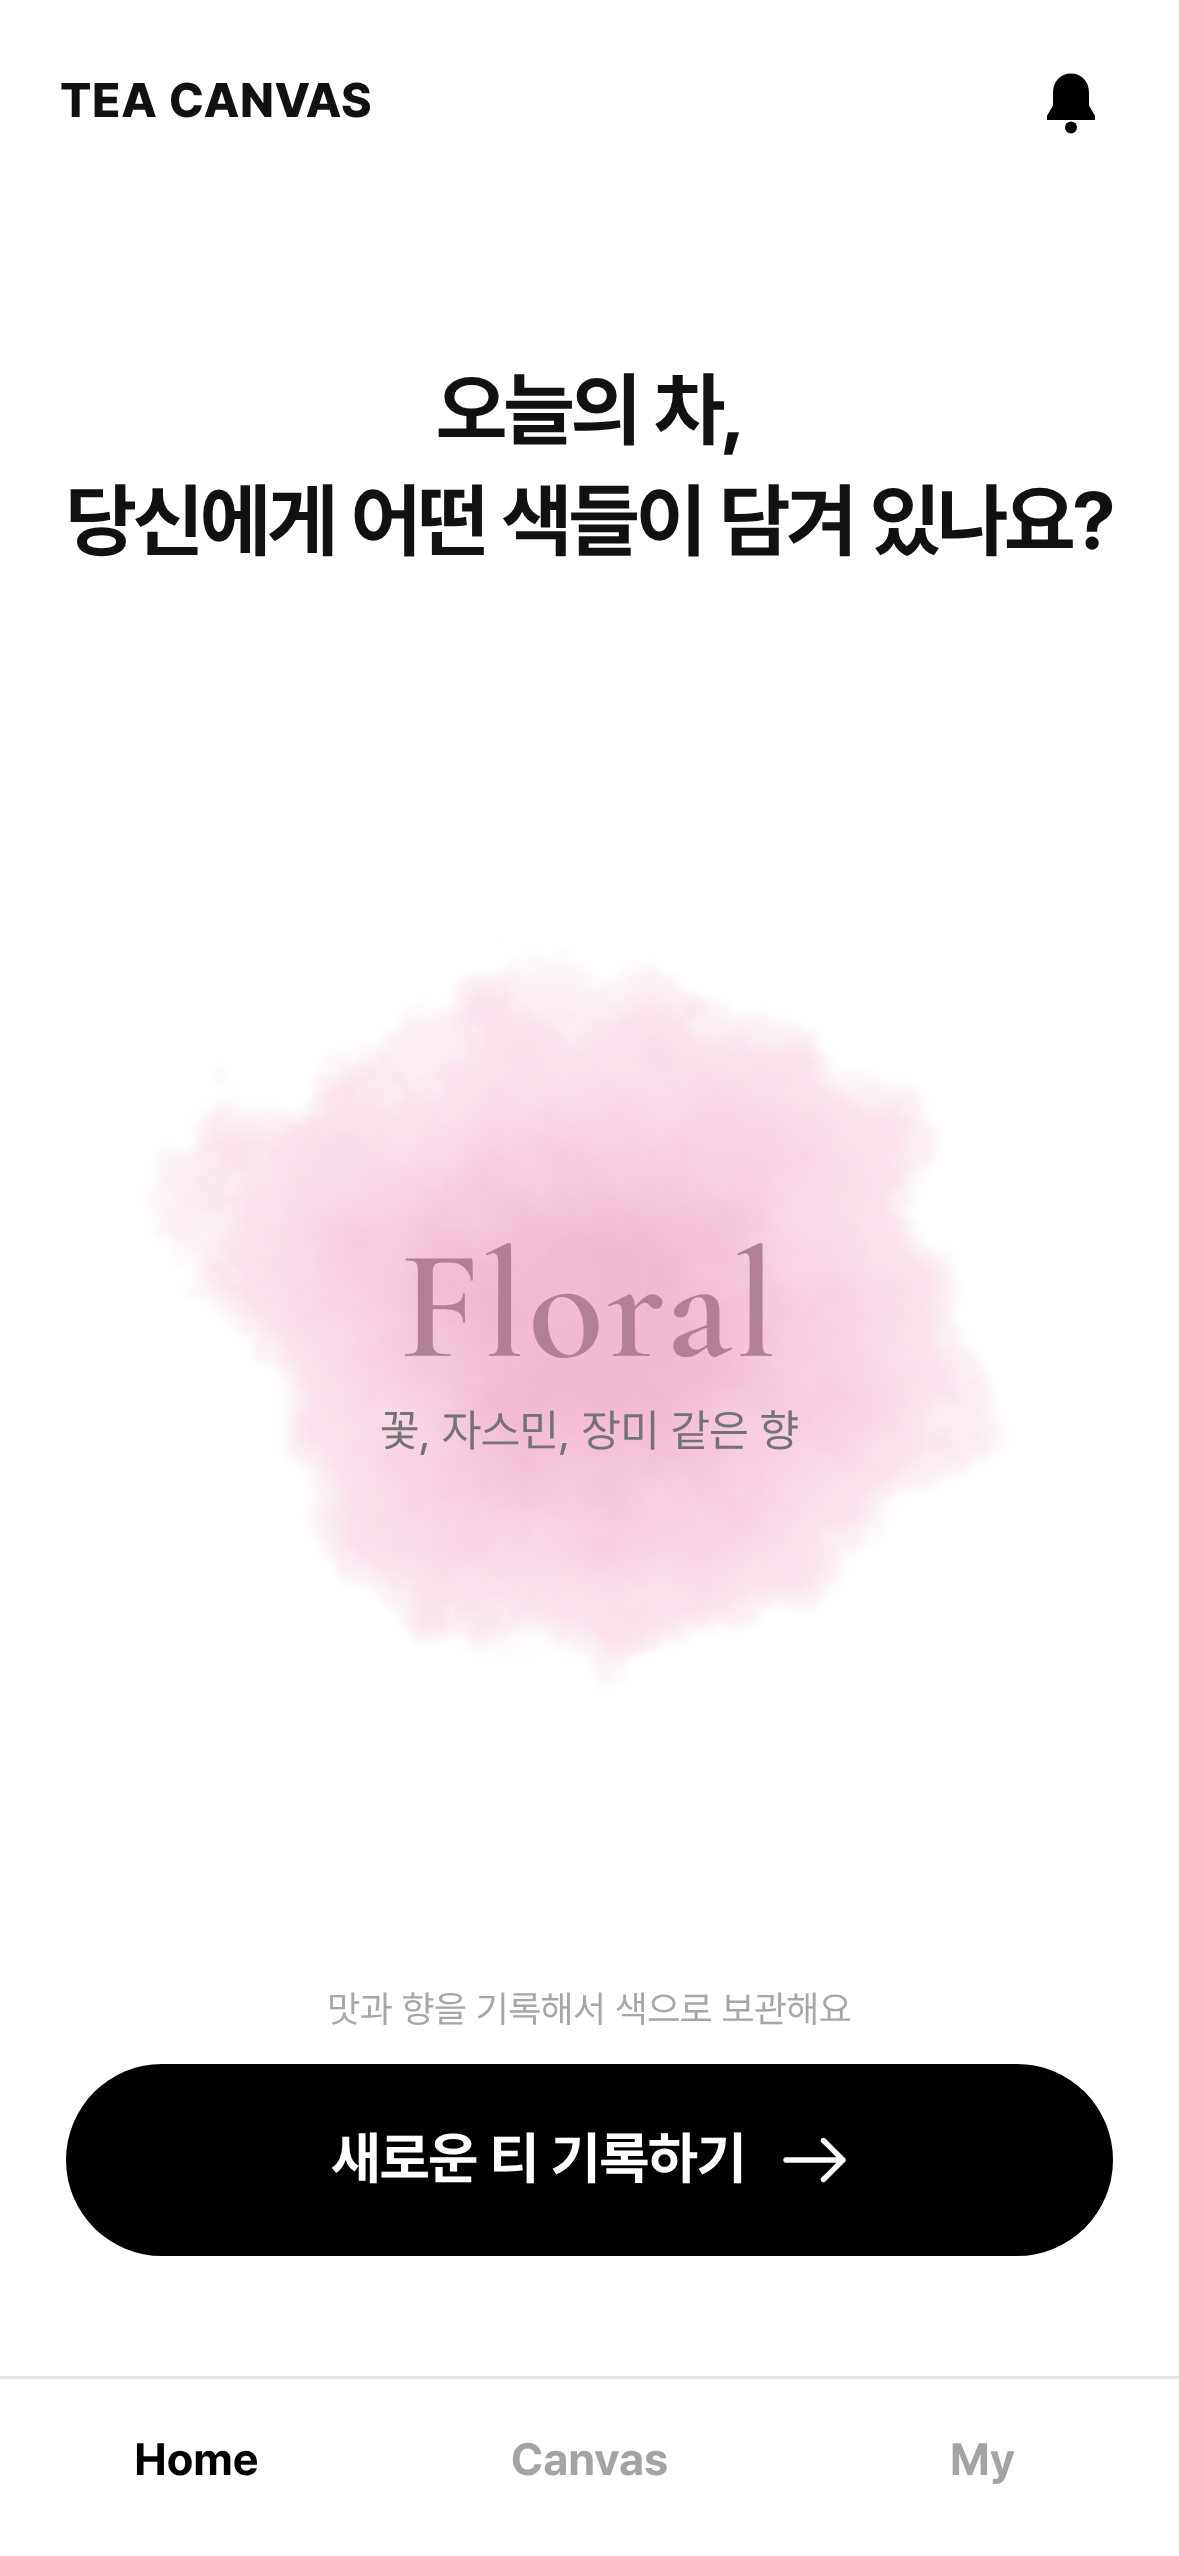
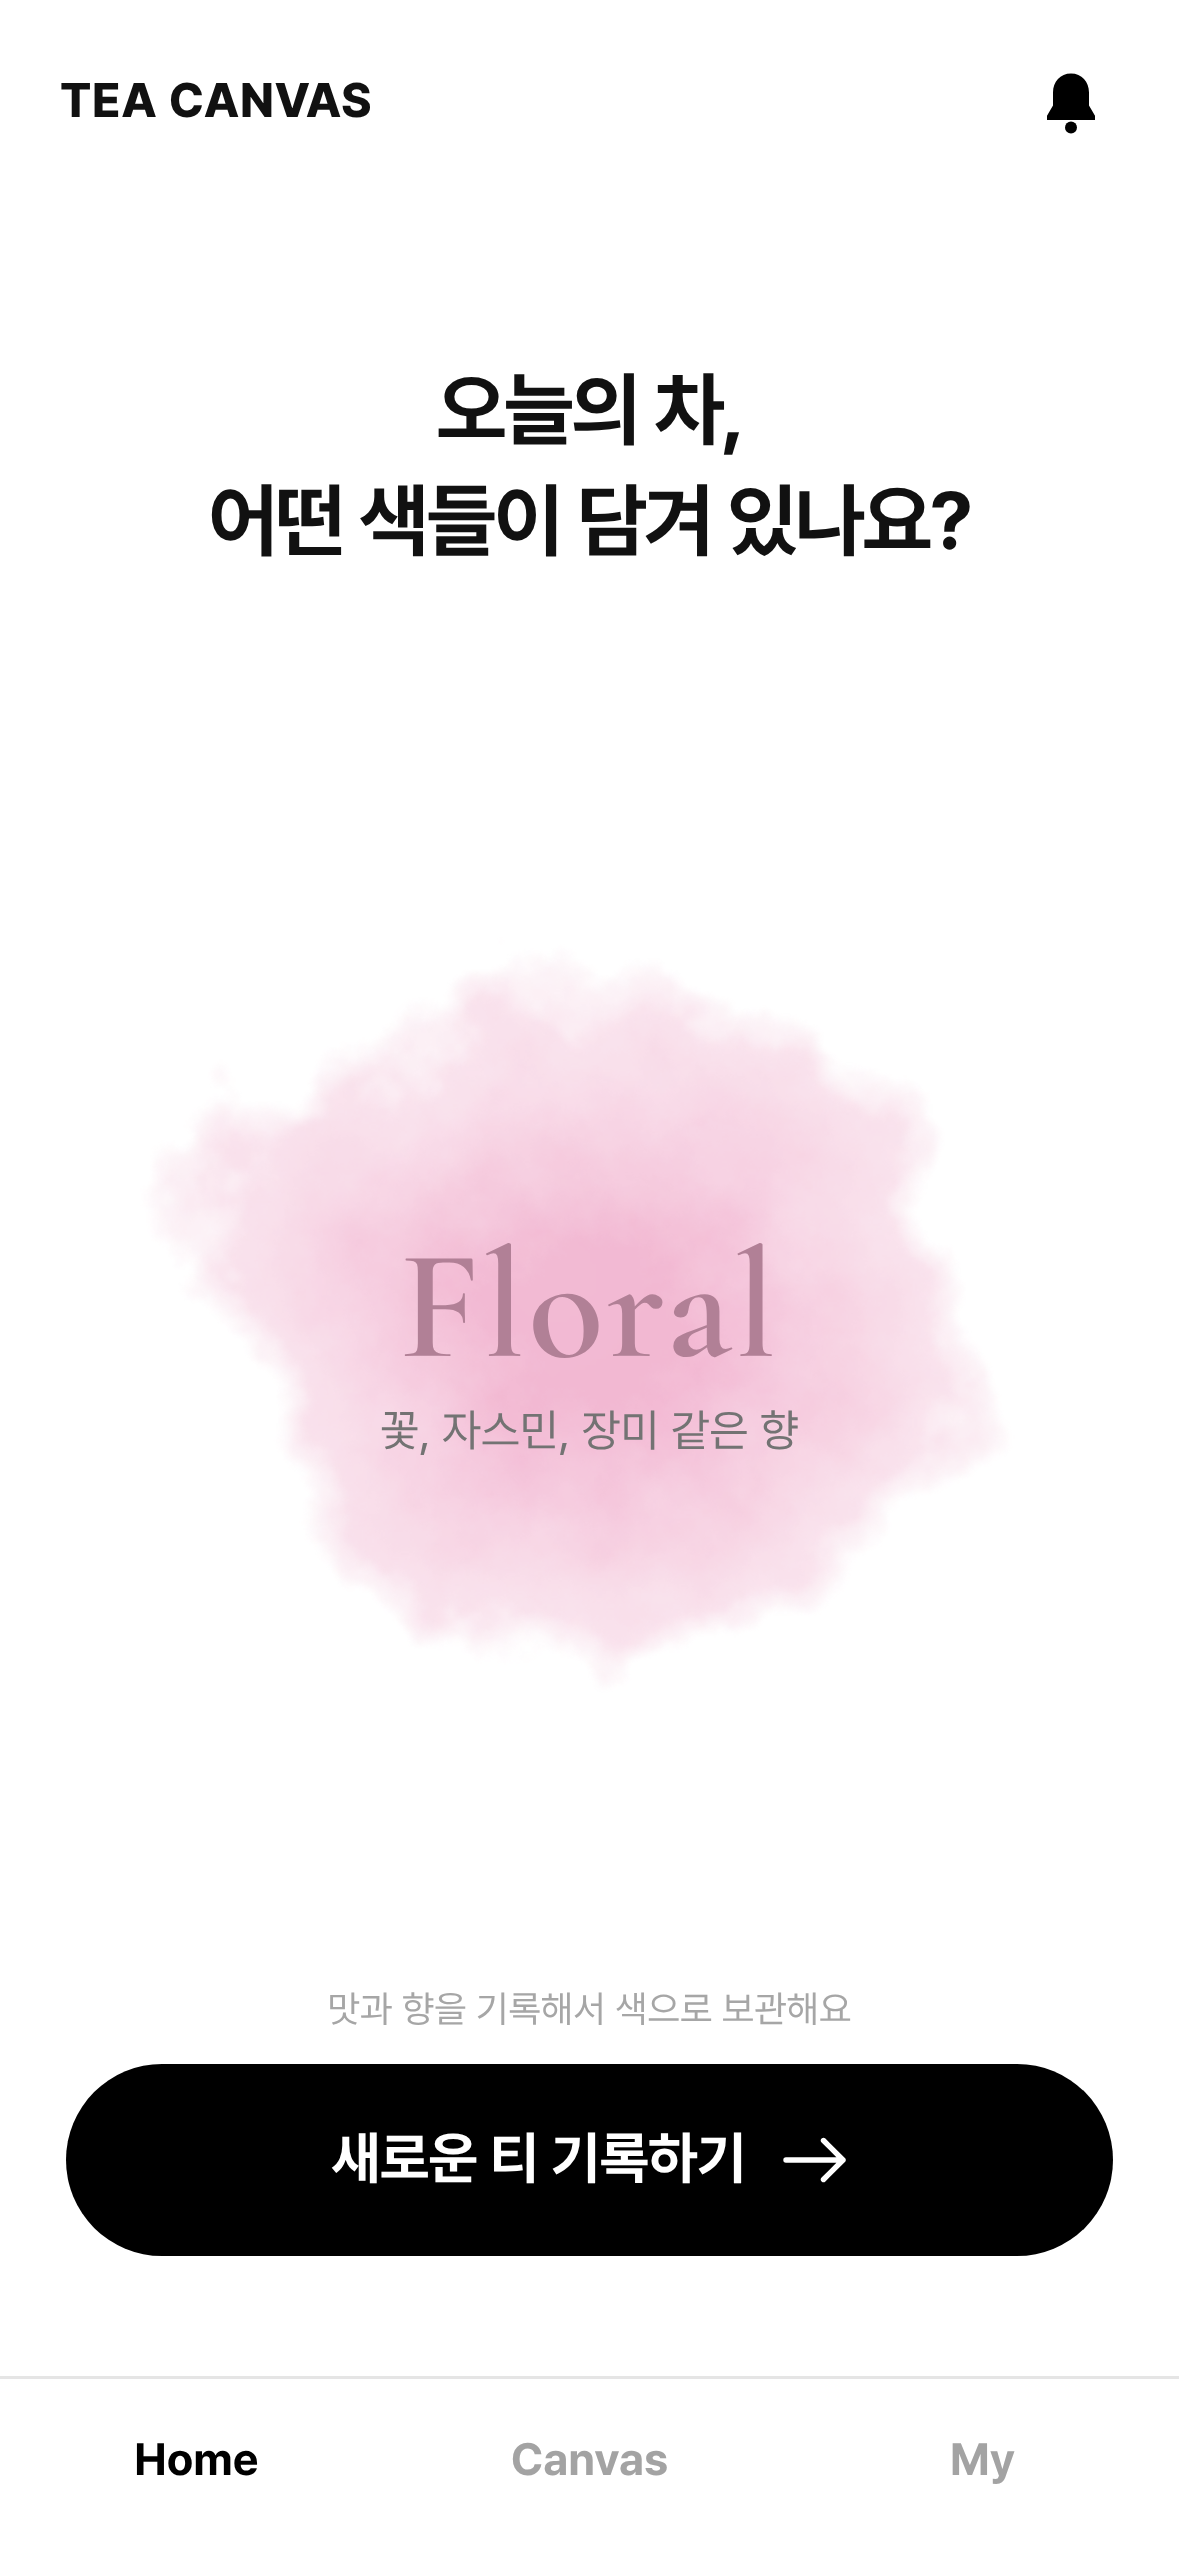
v5 home headline: drop '당신에게'
Claude-Session: https://claude.ai/code/session_01VYi7RYbVTTHX5Zvyr9oi23

Changed region(s): [[0.0611, 0.1854, 0.9466, 0.2164]]

diff --git a/TEA_CANVAS_prototype_v5.html b/TEA_CANVAS_prototype_v5.html
@@ -1195,7 +1195,7 @@ const SCREENS = {
 
 home(){
   return `<div class="home">
-    <h1 class="home-q ${HQ}" style="margin-top:${HL.qt}px">${/split/.test(HQ)?'<em>오늘의 차,</em>당신에게 어떤 색들이 담겨 있나요?':'오늘의 차,<br>당신에게 어떤 색들이 담겨 있나요?'}</h1>
+    <h1 class="home-q ${HQ}" style="margin-top:${HL.qt}px">${/split/.test(HQ)?'<em>오늘의 차,</em>어떤 색들이 담겨 있나요?':'오늘의 차,<br>어떤 색들이 담겨 있나요?'}</h1>
     <div class="home-drop" id="homeDrop"></div>
     ${(()=>{ const v=loadPaused(); return v?`<div class="resume"><button onclick="resumeRecord()">작성 중인 ‘${esc(v.draft.name||'새 기록')}’ 이어하기 →</button><button class="x" onclick="dropPaused()" aria-label="저장해둔 기록 지우기">지우기</button></div>`:''; })()}
     <p class="home-note" style="margin-bottom:${HL.nb}px;font-size:${HL.ns}px">맛과 향을 기록해서 색으로 보관해요</p>

diff --git a/exhibit/copy.md b/exhibit/copy.md
@@ -5,7 +5,7 @@
 콘셉트: **내 말로 남긴 맛과 향이 색이 되어 번지고, 한 잔 한 잔이 모여 나의 취향 캔버스가 된다**
 
 ## 제목 아래 한 줄
-1. **오늘의 차, 당신에게 어떤 색들이 담겨 있나요?**
+1. **오늘의 차, 어떤 색들이 담겨 있나요?**
    앱 첫 화면의 질문을 그대로 쓴 기본안이에요.
 2. **내 말로 남긴 맛과 향이, 한 방울의 색이 된다**
    "정해진 표현이 아닌 나만의 언어"라는 목적을 담았어요.
